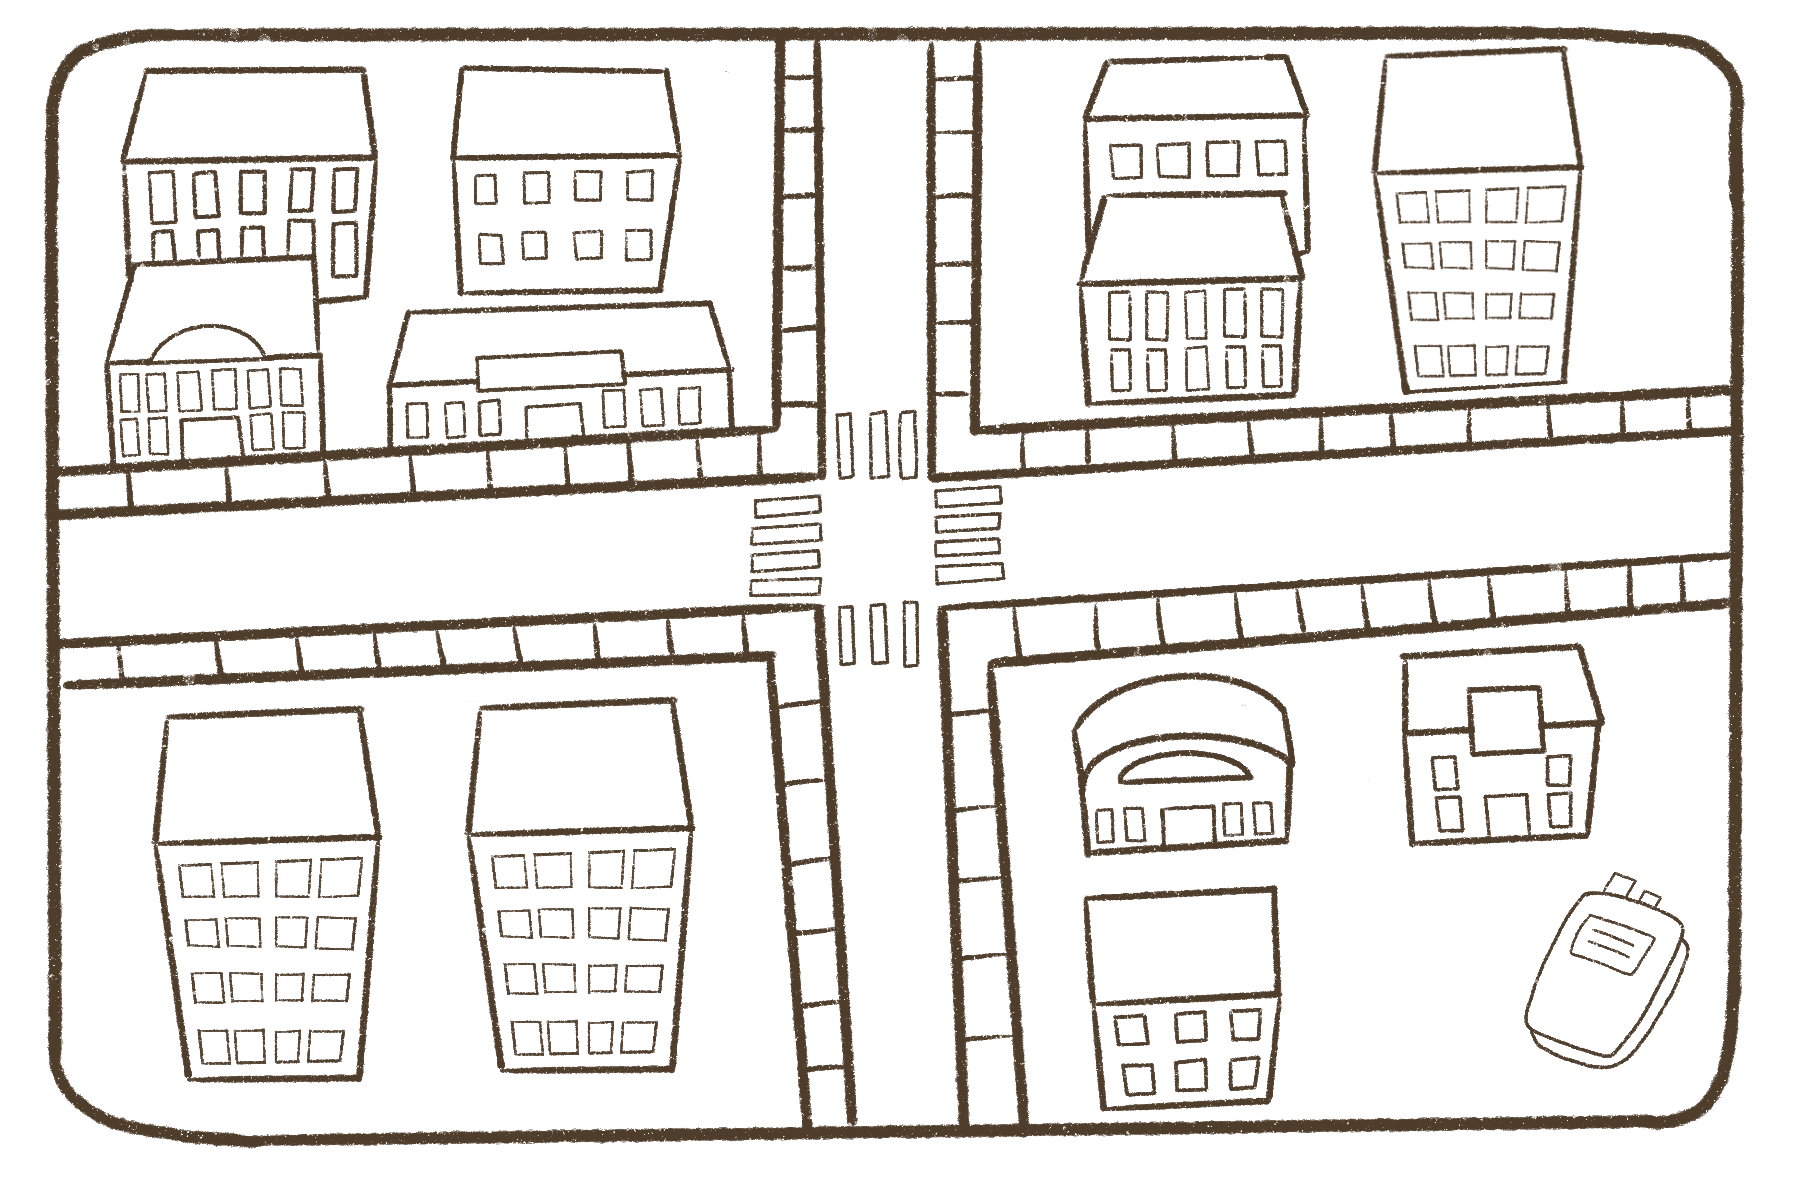
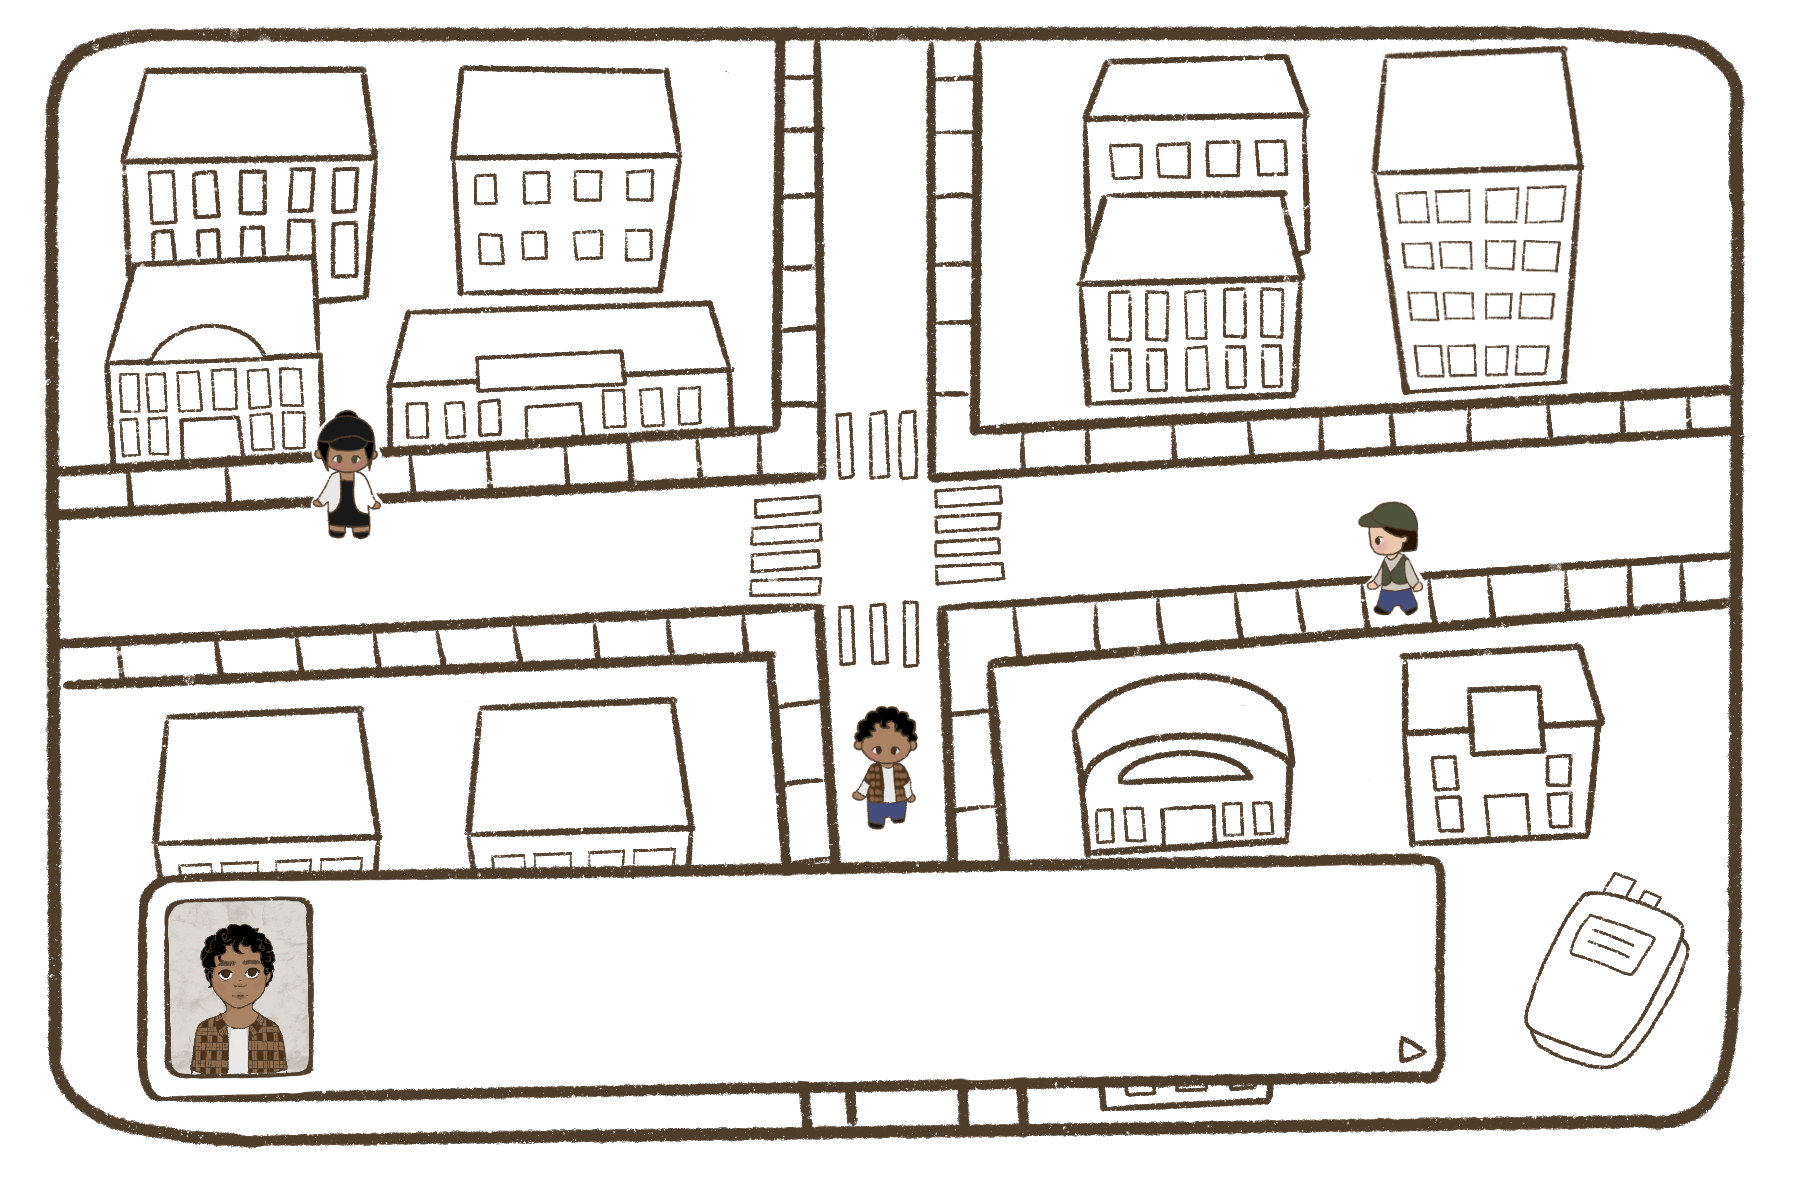
added final storyboard image

Changed region(s): [[0.0622, 0.5858, 0.8089, 0.925], [0.7467, 0.4008, 0.8089, 0.5242], [0.1556, 0.3392, 0.2178, 0.4625]]

diff --git a/Storyboard.html b/Storyboard.html
@@ -40,56 +40,13 @@
                 <img src = "./Images/ADD-STORYBOARD1.PNG" />
                 <img src = "./Images/ADD-STORYBOARD2.PNG" />
                 <img src = "./Images/ADD-STORYBOARD3.PNG" />
+                <img src = "./Images/ADD-STORYBOARD4 YAYAYAYAY .PNG" />
             </figure>
             <br><br>
             <article class = "quote">
                 <a class = "button" href = "Narrative.html"> Narrative</a>
             </article>
         </main>
-        <table>
-            <tr>
-                <td style = "width: 50%;">
-                    <img src = "./Images/inital friendship armando.png" />
-                </td>
-                <td style = "width: 50%;">
-                    <img src = "./Images/high friendship armando.png" />
-                </td>
-            </tr>
-            <tr>
-                <td style = "width: 50%;">
-                    <img src = "./Images/inital friendship joyce.png" />
-                </td>
-                <td style = "width: 50%;">
-                    <img src = "./Images/high friendship joyce.png" />
-                </td>
-            </tr>
-        </table>
-        <table>
-            <tr>
-                <td style = "width: 50%;">
-                    <img src = "./Images/inital friendship carter.png" />
-                </td>
-                <td style = "width: 50%;">
-                    <img src = "./Images/high friendship carter.png" />
-                </td>
-            </tr>
-            <tr>
-                <td style = "width: 50%;">
-                    <img src = "./Images/inital friendship lily.png" />
-                </td>
-                <td style = "width: 50%;">
-                    <img src = "./Images/high friendship lily.png" />
-                </td>
-            </tr>
-            <tr>
-                <td style = "width: 50%;">
-                    <img src = "./Images/inital friendship noelle.png" />
-                </td>
-                <td style = "width: 50%;">
-                    <img src = "./Images/high friendship noelle.png" />
-                </td>
-            </tr>
-        </table>
         <footer>
             <img src = "Images/leaves_bottom.png" />
         </footer>
